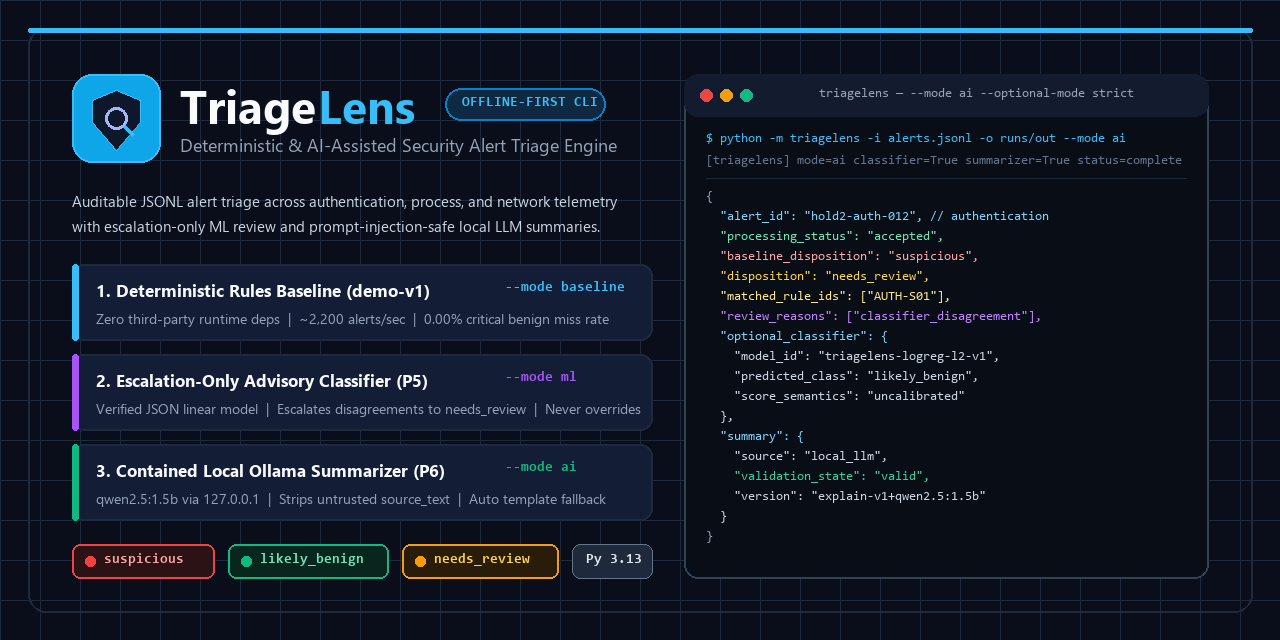
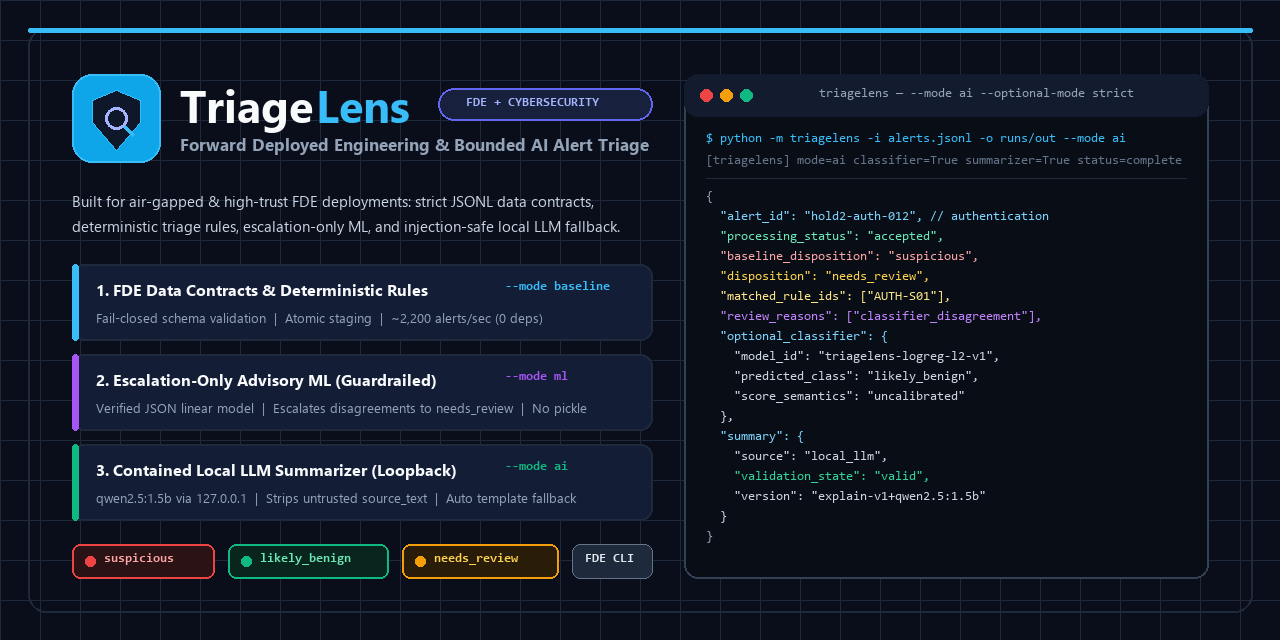
Clarify Forward Deployed Engineering (FDE) + Cybersecurity positioning in README and social preview

diff --git a/README.md b/README.md
@@ -1,14 +1,25 @@
-# TriageLens: Offline-First & AI-Assisted Security Alert Triage CLI
+# TriageLens: Forward Deployed Engineering (FDE) + Cybersecurity Alert Triage CLI
 
 <p align="center">
-  <img src="assets/social_preview.svg" alt="TriageLens Architecture & CLI Preview" width="100%" />
+  <img src="assets/social_preview.svg" alt="TriageLens FDE + Cybersecurity Architecture & CLI Preview" width="100%" />
 </p>
 
-TriageLens is a local, offline-first batch CLI that ingests canonical security alerts in JSON Lines format (`schema_version: "1.0"`), validates and normalizes evidence, applies deterministic triage rules (`demo-v1`), and produces structured results (`results.jsonl`) plus an atomic run manifest (`run_report.json`).
+> **Project Positioning — Forward Deployed Engineering (`FDE`) + Cybersecurity:**  
+> **TriageLens** is an **FDE + Cybersecurity** systems engineering project, not a full-scale commercial SIEM or EDR appliance. It demonstrates how a Forward Deployed Engineer designs **reliable data contracts, fail-closed ingestion, auditable deterministic decision pipelines, and strictly bounded AI/LLM components** for high-trust or air-gapped security operations environments.
 
-Optional classical ML (`P5` `LogisticRegression` advisory classifier) and local LLM (`P6` Ollama `qwen2.5:1.5b` summarizer) components operate behind strict containment boundaries:
-- **Advisory ML (`P5`):** Can only escalate a decisive baseline verdict (`suspicious` or `likely_benign`) to `needs_review` (`classifier_disagreement`) while preserving `baseline_disposition`. It never promotes `needs_review` to a decisive disposition.
-- **Local LLM Summarizer (`P6`):** Receives only a sanitized `RestrictedEvidencePacket` (never raw `source_text`), cannot mutate any decision or rule field, and automatically falls back to deterministic `explain-v1` templates on timeout or validation failure.
+---
+
+## Why FDE + Cybersecurity?
+
+In real-world Forward Deployed Engineering engagements, customer telemetry is noisy, schemas drift, environments are often offline or restricted, and probabilistic AI models cannot be trusted to make autonomous security decisions. TriageLens solves this FDE integration challenge across three layered boundaries:
+
+1. **Strict FDE Data Contracts & Atomic Operations (`src/triagelens/`):**
+   - Streams canonical JSON Lines (`schema_version: "1.0"`), rejects malformed/duplicate-key/type-coerced payloads fail-closed (`invalid` records never silently become `likely_benign`), and finalizes batch outputs via atomic staging directories (`results.jsonl` + `run_report.json`).
+2. **Deterministic Domain Baseline (`--mode baseline`):**
+   - Evaluates versioned triage rules (`demo-v1`) across `authentication`, `process`, and `network` alert profiles with zero third-party runtime dependencies (`~2,200` alerts/sec) and explicit abstention (`needs_review`) when evidence is incomplete or contradictory.
+3. **Guardrailed AI Integration (`--mode ml` & `--mode ai`):**
+   - **Advisory ML (`P5` `LogisticRegression`):** Loaded from a verified JSON weight bundle (`models/triagelens_linear_v1.json` — no unsafe `pickle`/`joblib` execution). Can **only escalate** a decisive baseline verdict to `needs_review` (`classifier_disagreement`) while preserving `baseline_disposition`.
+   - **Contained Local LLM (`P6` Ollama `qwen2.5:1.5b`):** Runs strictly over local loopback (`http://127.0.0.1:11434`), receives only a sanitized `RestrictedEvidencePacket` (never untrusted `source_text`), cannot mutate any decision field, and falls back to deterministic `explain-v1` templates on timeout or validation failure.
 
 ---
 
